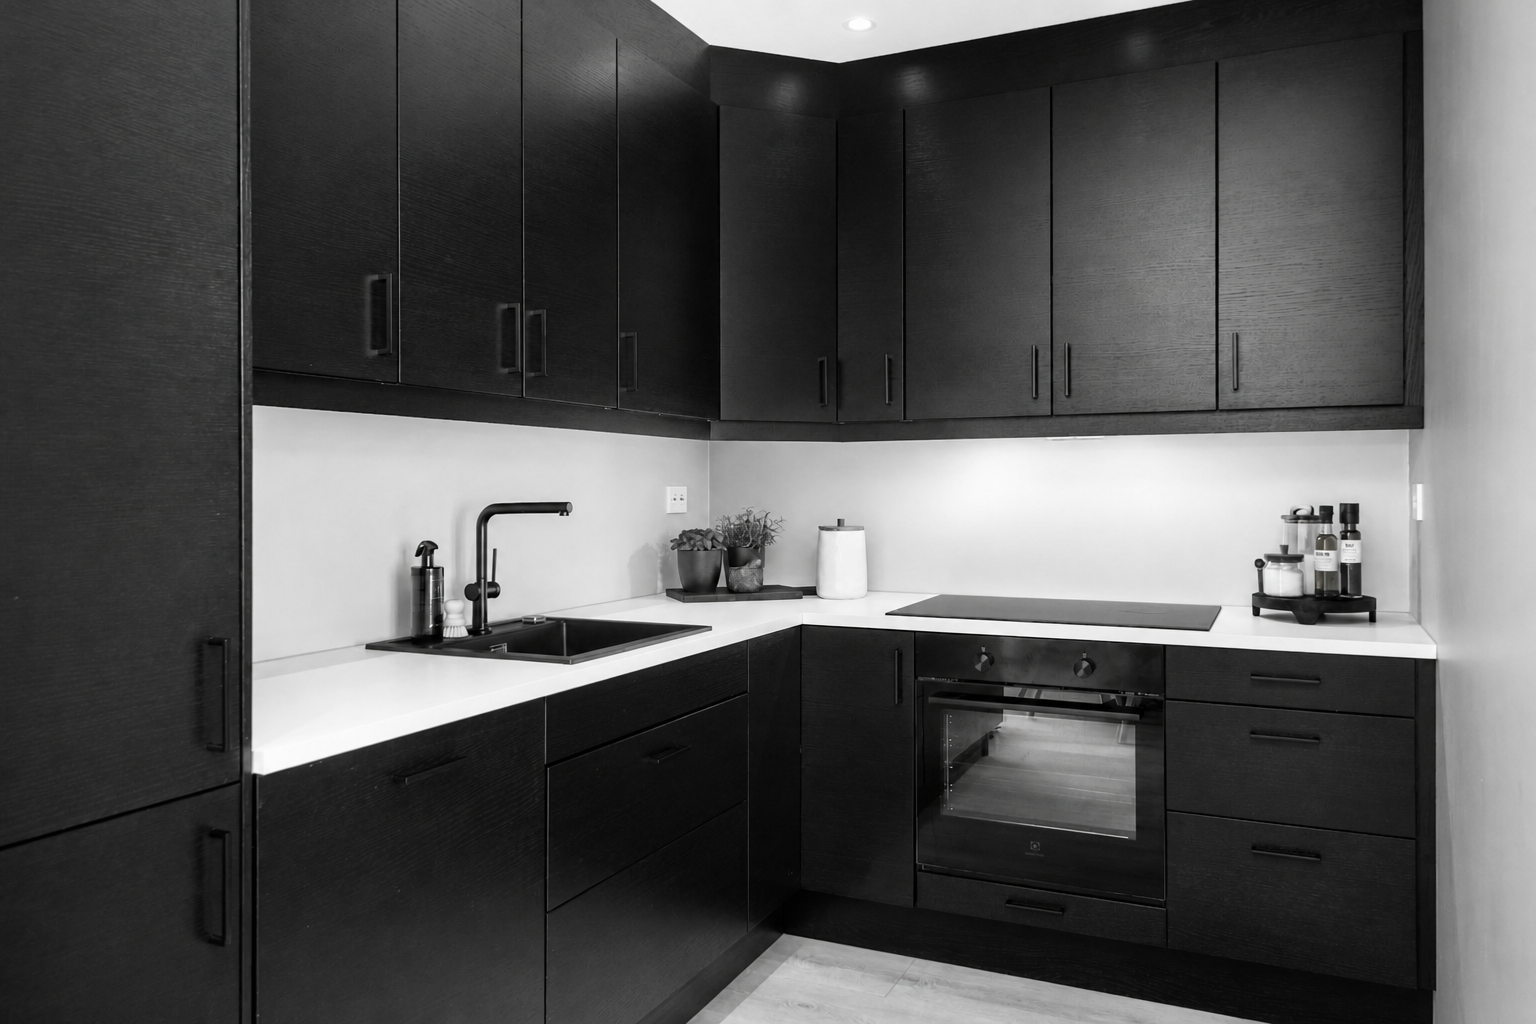
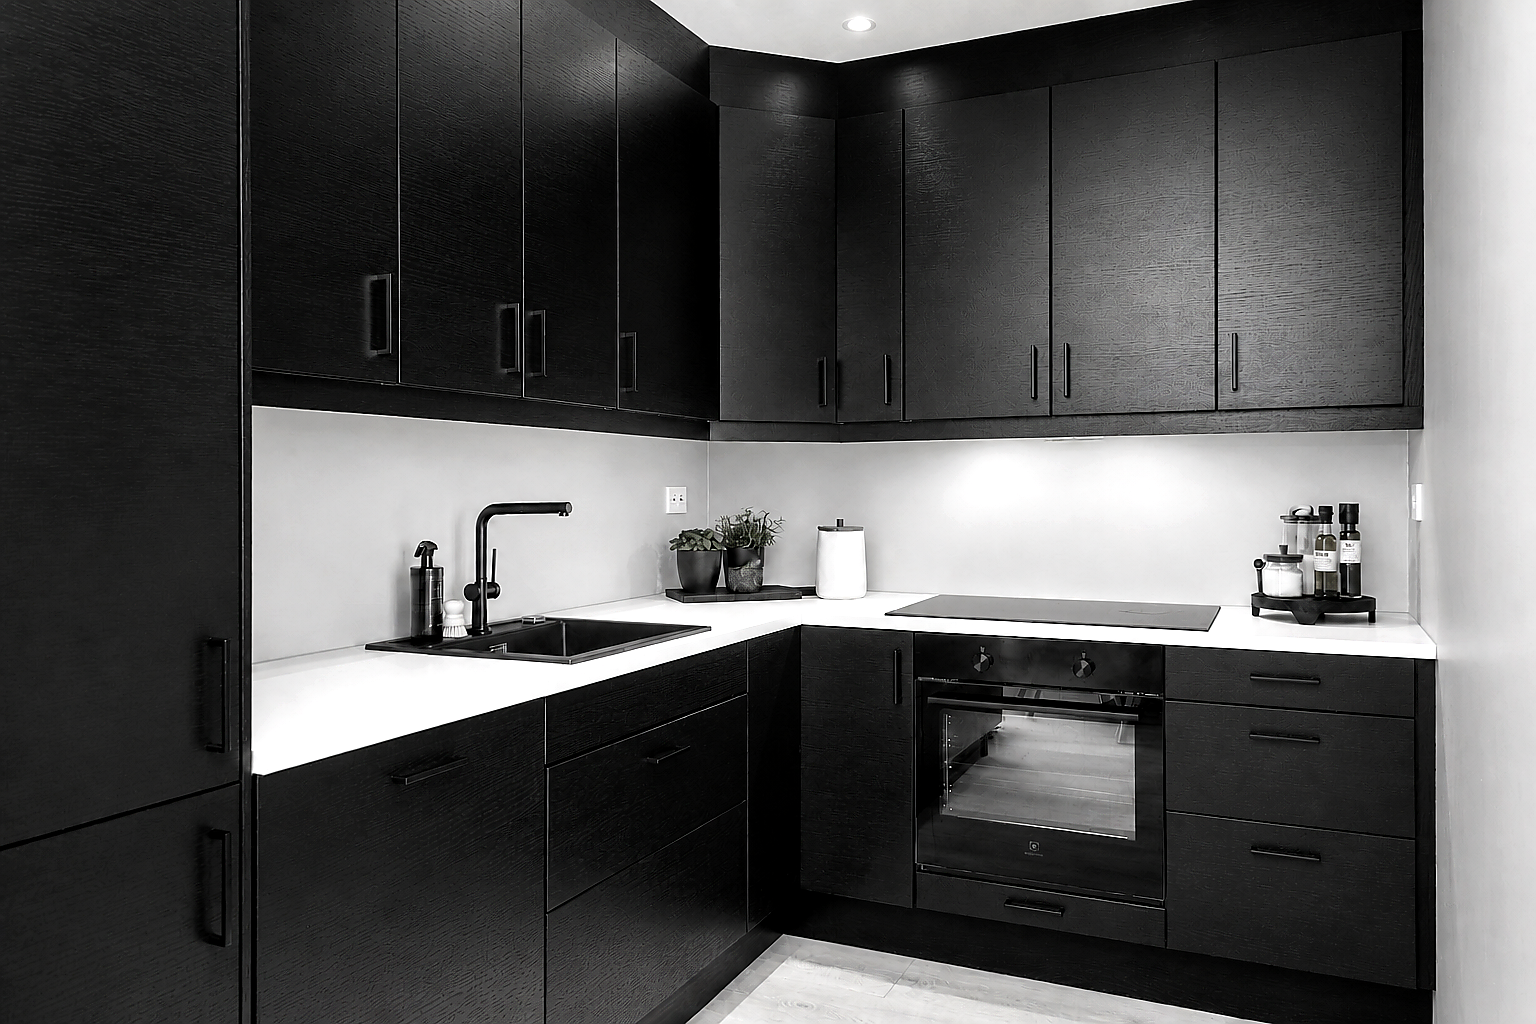
Improve image clarity and align process steps

diff --git a/styles.css b/styles.css
@@ -160,10 +160,11 @@
 .home-intro-media img{width:100%;height:100%;display:block;aspect-ratio:4/3;object-fit:cover;filter:grayscale(1) contrast(1.06);transition:transform .75s cubic-bezier(.2,.7,.2,1),filter .7s}
 .home-intro-media:hover img{transform:scale(1.025)}
 .home-intro-media.is-color img{filter:none}
-.process-icon{display:flex;width:28px;height:28px;margin-top:auto;margin-bottom:14px;color:#666;transition:transform .25s ease,color .25s ease}
+.process-icon{display:flex;width:28px;height:28px;margin-top:0;margin-bottom:15px;color:#666;flex:0 0 auto;transition:transform .25s ease,color .25s ease}
 .process-icon svg{width:100%;height:100%;fill:none;stroke:currentColor;stroke-width:1.5;stroke-linecap:round;stroke-linejoin:round}
 .process-rail>div:hover .process-icon{color:#111;transform:translateY(-2px)}
-.process-rail strong{margin-top:0}
+.process-rail strong{margin-top:0;min-height:38px;display:flex;align-items:flex-start}
+.process-rail small{margin-top:8px}
 .cost-card{background:#ededeb;border-color:#d1d1ce}
 .cost-card:nth-child(4){background:#1f1f1f;border-color:#1f1f1f}
 .cost-card:nth-child(5){background:#dededb}
@@ -176,7 +177,7 @@
 .header-socials .social-link svg{width:17px;height:17px}
 @media(max-width:1100px){.site-head{gap:14px}.site-head nav{gap:7px}.reference-nav .nav-item{padding-left:4px;padding-right:4px;font-size:9px}.header-socials{gap:7px}.header-socials .social-link{min-width:15px;font-size:9px}.header-socials .social-link svg{width:15px;height:15px}.site-head .phone{font-size:10px;white-space:nowrap;flex:0 0 auto}}
 @media(max-width:980px){.site-head{gap:12px}.site-head nav{gap:5px}.reference-nav .nav-item{padding-left:3px;padding-right:3px;font-size:8px}.header-socials{gap:6px}.header-socials .social-link{min-width:14px}.site-head .phone{font-size:9px}}
-@media(max-width:800px){.home-intro{display:block;padding-top:78px;padding-bottom:90px}.home-intro-copy{max-width:none}.home-intro-media{margin-top:42px;min-height:0;aspect-ratio:1.25}.home-intro-media img{height:100%;aspect-ratio:auto}.header-socials{gap:10px}.header-socials .social-link{min-width:16px}.site-head .phone{margin-left:0;max-width:108px;white-space:nowrap}.process-icon{width:24px;height:24px;margin-bottom:12px}.cost-card{background:#ededeb}.cost-card:nth-child(4){background:#1f1f1f}.cost-card:nth-child(5){background:#dededb}}
+@media(max-width:800px){.home-intro{display:block;padding-top:78px;padding-bottom:90px}.home-intro-copy{max-width:none}.home-intro-media{margin-top:42px;min-height:0;aspect-ratio:1.25}.home-intro-media img{height:100%;aspect-ratio:auto}.header-socials{gap:10px}.header-socials .social-link{min-width:16px}.site-head .phone{margin-left:0;max-width:108px;white-space:nowrap}.process-icon{width:24px;height:24px;margin-bottom:12px}.process-rail strong{min-height:38px}.cost-card{background:#ededeb}.cost-card:nth-child(4){background:#1f1f1f}.cost-card:nth-child(5){background:#dededb}}
 
 /* Keep the compact header and copy inside the viewport on small phones. */
 html,body{overflow-x:hidden}
